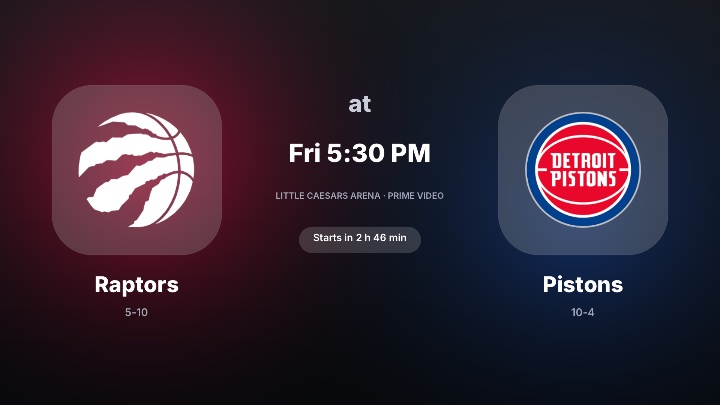
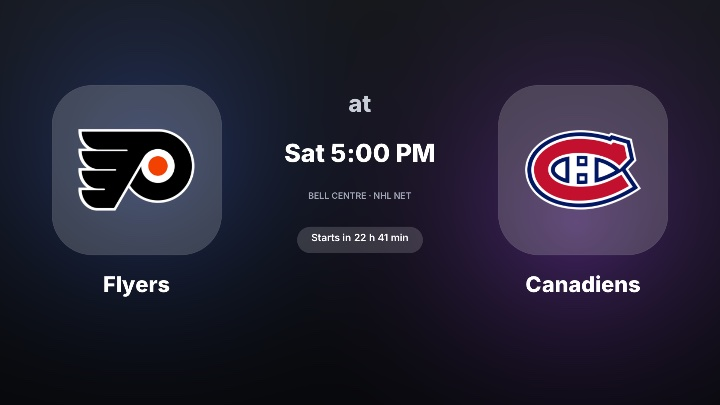
Site: new screenshots (team cards, team page, scores, live game)

diff --git a/docs/index.html b/docs/index.html
@@ -194,7 +194,7 @@ footer .wrap { display: grid; gap: 8px; }
         <div class="pane">
           <div class="ico"><svg viewBox="0 0 24 24"><rect x="3" y="4" width="18" height="16" rx="3"/><path d="M3 10h18M8 4v6M16 4v6"/></svg></div>
           <h3>Your teams, at a glance</h3>
-          <p>The time, your next game with a countdown and channel, today's scores and your division standings, on one screen.</p>
+          <p>A card for each team you follow: its live score, today's result, or its next game with a countdown. Open a team for its next game, last game and standings.</p>
         </div>
         <div class="pane">
           <div class="ico"><svg viewBox="0 0 24 24"><circle cx="12" cy="12" r="3"/><path d="M5.6 5.6a9 9 0 0 0 0 12.8M18.4 5.6a9 9 0 0 1 0 12.8"/></svg></div>
@@ -234,9 +234,14 @@ footer .wrap { display: grid; gap: 8px; }
       </div>
       <div class="gallery">
         <div class="row3">
-          <figure><img src="assets/home.jpg" alt="Home screen: clock, next game, weather at game time, tonight's scores and division standings" loading="lazy"><figcaption><b>Home</b><span>Your next game, the weather where it's played, scores and standings.</span></figcaption></figure>
+          <figure><img src="assets/home.jpg" alt="Home: a card per followed team, the Raptors live against Detroit and the Canadiens' next game, then today's scores" loading="lazy"><figcaption><b>Home</b><span>A card for each team you follow, then today's scores.</span></figcaption></figure>
+          <figure><img src="assets/team.jpg" alt="Team page for the Montreal Canadiens: next game with weather, last game, Atlantic Division standings" loading="lazy"><figcaption><b>Team page</b><span>Next game and weather, last game, standings.</span></figcaption></figure>
+          <figure><img src="assets/scores.jpg" alt="Today's scores: every game in the followed leagues, one live" loading="lazy"><figcaption><b>Today's scores</b><span>Every game in your leagues; open any one.</span></figcaption></figure>
+        </div>
+        <div class="row3">
           <figure><img src="assets/live.jpg" alt="Live view of a baseball game: score, diamond with runners, count, pitcher and batter, line score" loading="lazy"><figcaption><b>Live view</b><span>Takes over when one of your teams is playing.</span></figcaption></figure>
-          <figure><img src="assets/game.jpg" alt="Game page before tip-off with time, venue, weather and season averages" loading="lazy"><figcaption><b>Game page</b><span>Any game from the scores, opened with A.</span></figcaption></figure>
+          <figure><img src="assets/game.jpg" alt="Game page of a live basketball game: score, quarter line score, latest plays and team stats" loading="lazy"><figcaption><b>Game page</b><span>Line score, latest plays and team stats.</span></figcaption></figure>
+          <figure><img src="assets/setup.jpg" alt="Setup screen with a QR code, the page address and a PIN" loading="lazy"><figcaption><b>Setup</b><span>Scan it, or open the address on a computer.</span></figcaption></figure>
         </div>
         <div class="row2">
           <figure><img src="assets/backglass-live.jpg" alt="Backglass: Yankees and Blue Jays logos with a live 3 to 4 score" loading="lazy"><figcaption><b>Backglass, during a game</b><span>Team vs. Team with the live score.</span></figcaption></figure>
